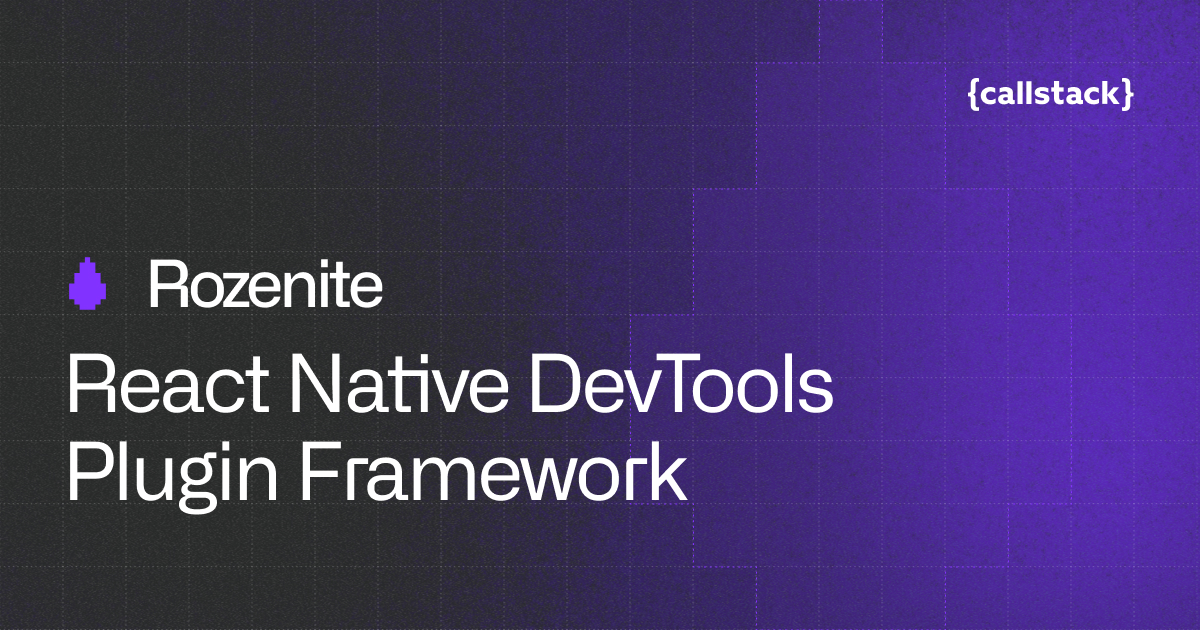
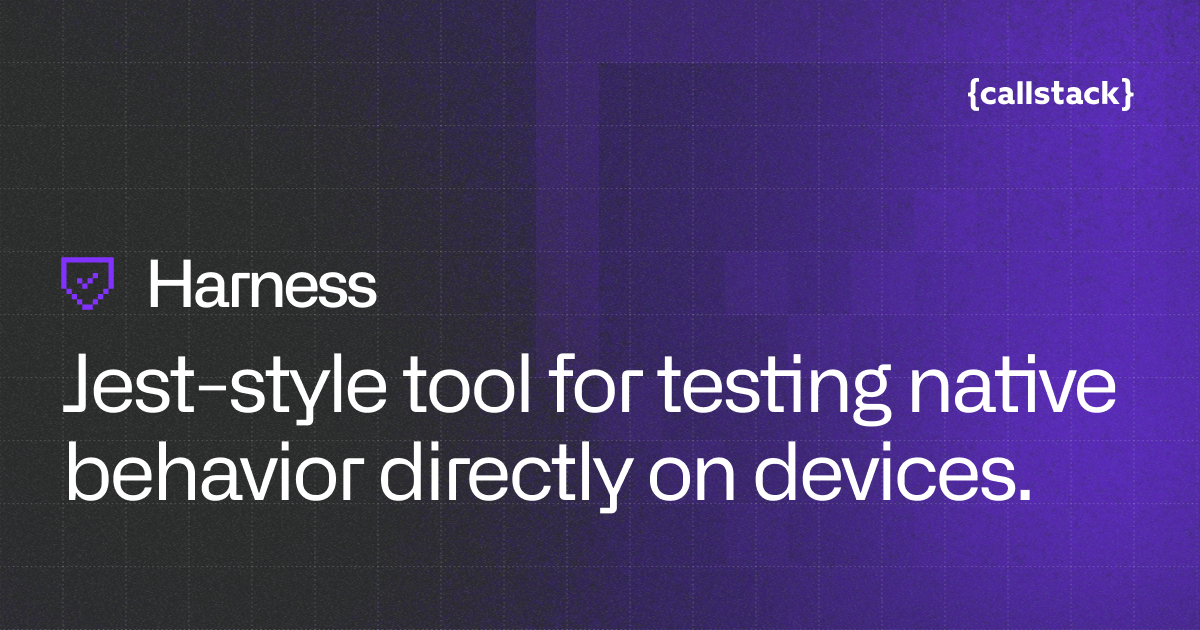
docs: update website

diff --git a/website/rspress.config.ts b/website/rspress.config.ts
@@ -9,7 +9,7 @@ export default withCallstackPreset(
     context: __dirname,
     docs: {
       description:
-        'Bridge the testing gap: Jest-style tests in real native environments. Get the convenience of describe/it with full access to native modules.',
+        'Jest-style tool for testing native behavior directly on devices.',
       editUrl: EDIT_ROOT_URL,
       icon: '/logo.svg',
       logoDark: '/logo-dark.svg',
@@ -19,7 +19,6 @@ export default withCallstackPreset(
       rootUrl: 'https://react-native-harness.dev',
       socials: {
         github: 'https://github.com/callstackincubator/react-native-harness',
-        x: 'https://x.com/reactnativeharness',
         discord: 'https://discord.gg/TWDBep3nXV',
       },
       title: 'React Native Harness',
